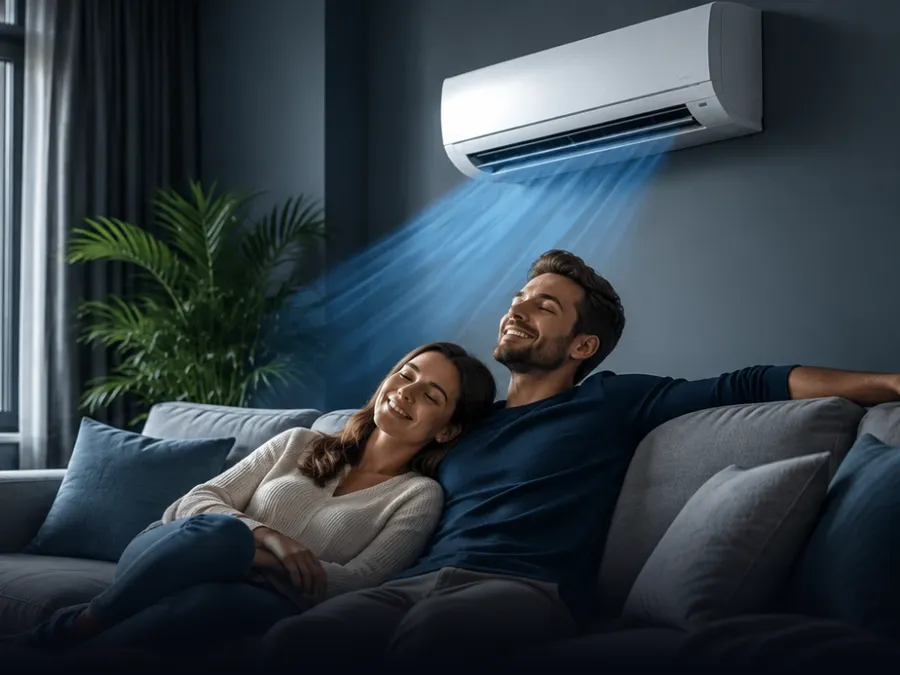
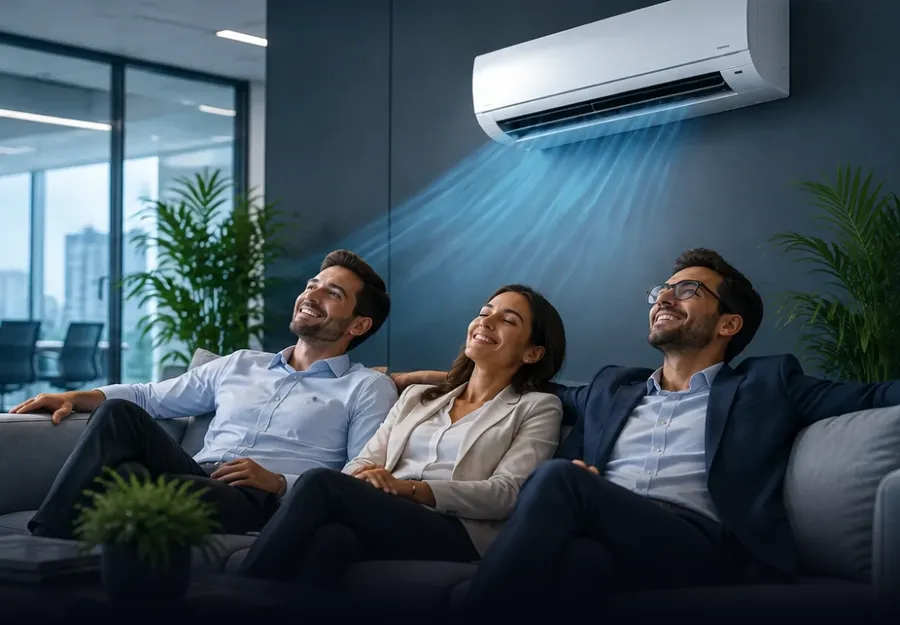
Use corporate office climate image in hero
Claude-Session: https://claude.ai/code/session_013FPP69Zx9mxkqLNV6xGTjy

diff --git a/apex-cold-sistem/index.html b/apex-cold-sistem/index.html
@@ -87,7 +87,7 @@
     <section class="hero" aria-labelledby="hero-title">
       <picture class="hero__media">
         <source media="(min-width: 900px)" srcset="assets/img/hero-desktop.webp" width="2000" height="750">
-        <img src="assets/img/hero-mobile.webp" width="900" height="675" alt="Ambiente climatizado com ar-condicionado split, pessoas relaxando no conforto" fetchpriority="high">
+        <img src="assets/img/hero-mobile.webp" width="900" height="625" alt="Equipe em escritório corporativo climatizado com ar-condicionado" fetchpriority="high">
       </picture>
       <div class="container hero__inner">
         <div class="hero__content">

diff --git a/apex-cold-sistem/README.md b/apex-cold-sistem/README.md
@@ -13,7 +13,7 @@ python3 -m http.server 8080   # abra http://localhost:8080
 
 | Seção | Observações |
 | --- | --- |
-| Banner | Imagem de ambiente climatizado enviada pelo cliente; `hero-desktop.webp` (imagem inteira) e `hero-mobile.webp` (recorte do ar-condicionado e do casal, no topo) |
+| Banner | Imagem de escritório corporativo climatizado enviada pelo cliente; `hero-desktop.webp` (imagem inteira) e `hero-mobile.webp` (recorte do ar-condicionado e das pessoas, no topo) |
 | Marcas | Carrossel infinito com as marcas de climatização e refrigeração, pausa ao passar o mouse |
 | Avaliações | Logo após as marcas. Carrossel no estilo Google (arrastar no celular, setas no desktop), alimentado por `assets/js/reviews.js` |
 | Serviços | Câmara fria, manutenção, instalação, PMOC, VRF e VRV. Cada card tem um botão de WhatsApp com mensagem própria |
